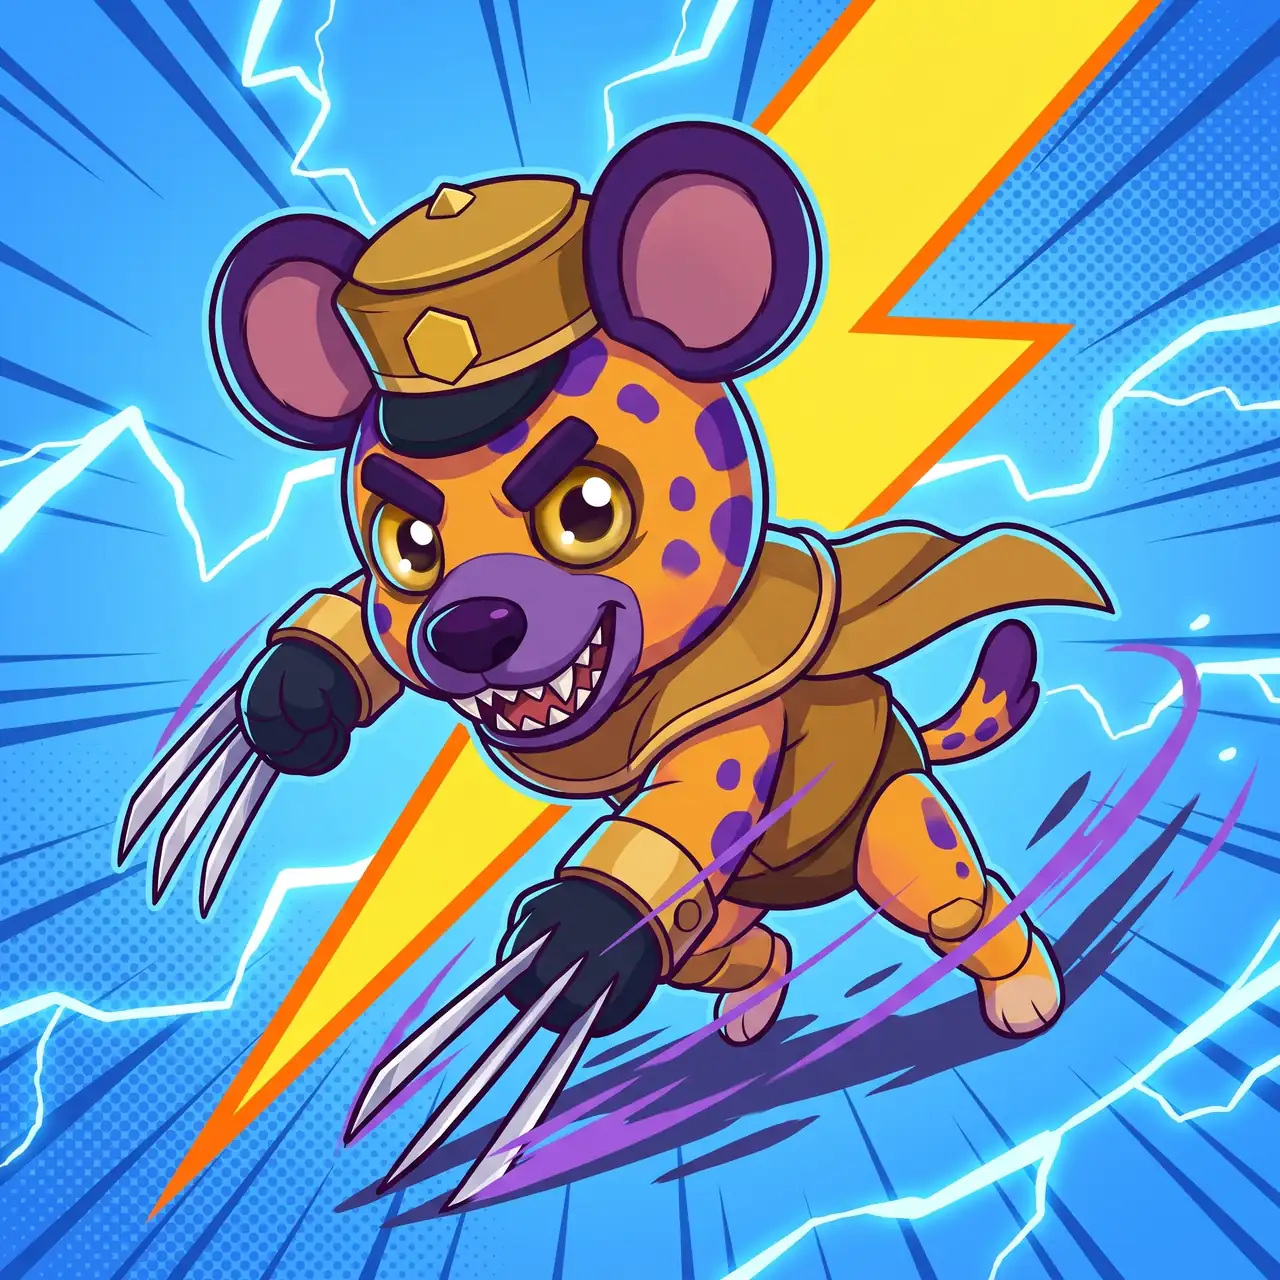
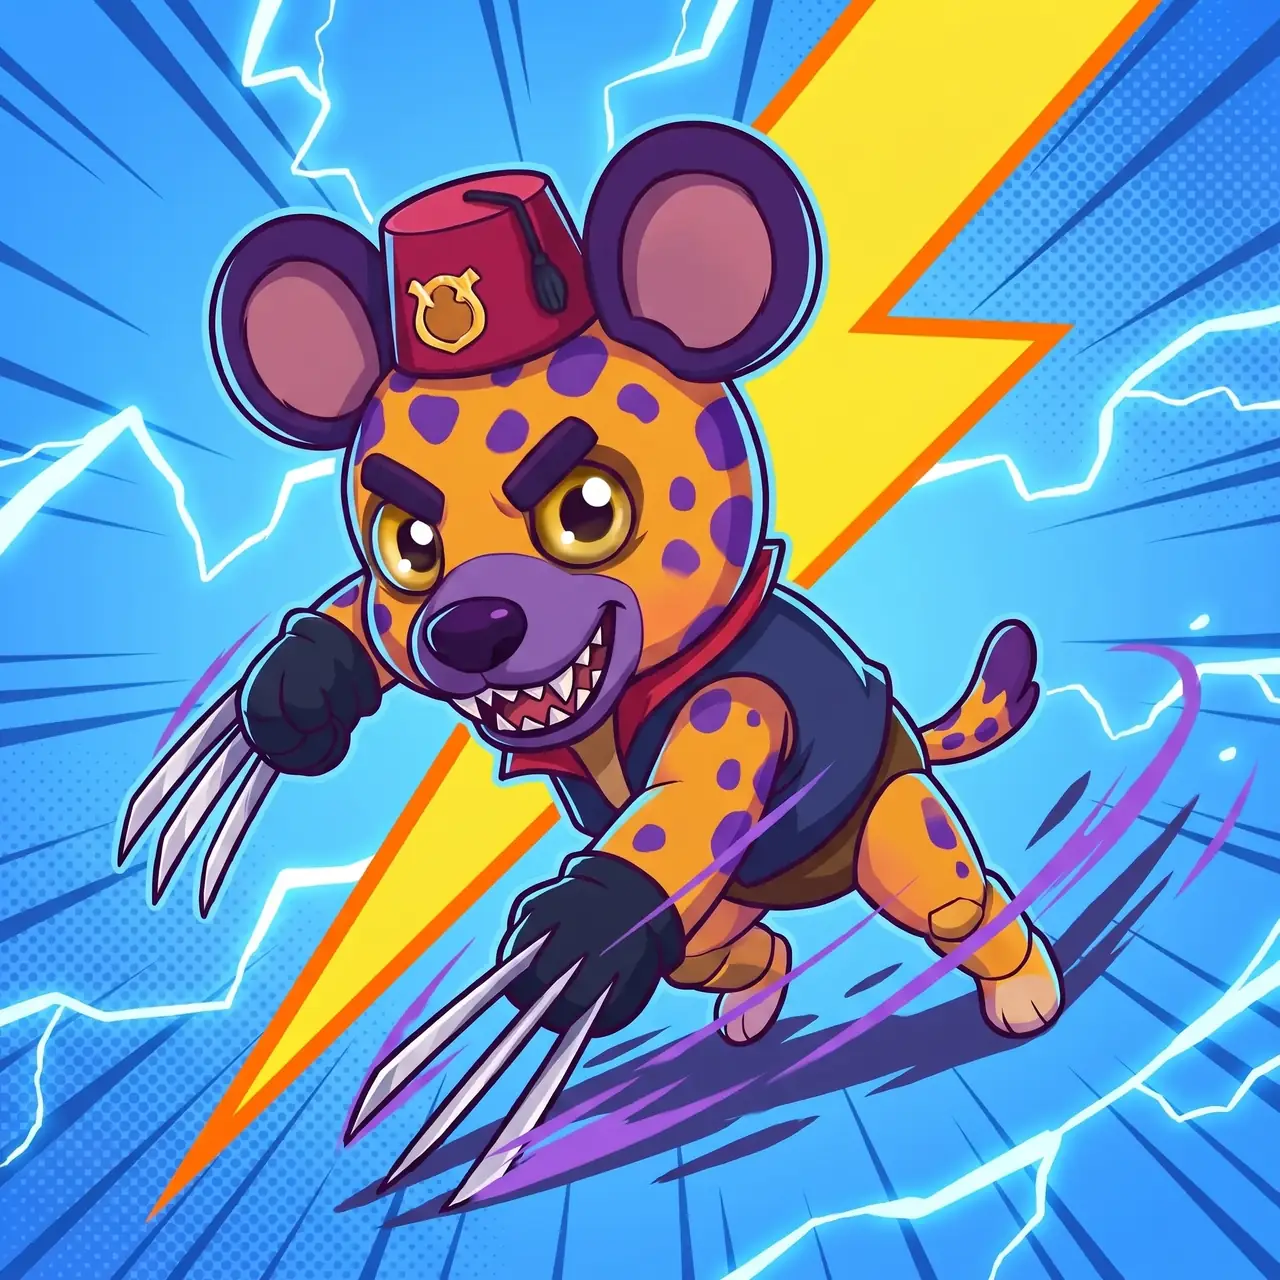
feat(pawlegends): loading comic rev 2, four panels redrawn on-model and five new champions
Sir Brutus (white dome helmet, pink crest), Marshmallow (pink beanie and scarf), Cacklejaw (red fez,
navy vest) and Howler (pink mantle and mitts, no harness) redrawn against their in-game 3D models;
Nova, Ziggy, Dusty, Barkula and Ranger added from dev-gallery renders of their models (gemini-3-pro-image).
17 panels (9 cats, 8 dogs), 640 ~55 KB / 1280 ~113 KB webp; COMIC_REV 2.

diff --git a/pawlegends/src/boot/comicBoot.js b/pawlegends/src/boot/comicBoot.js
@@ -7,7 +7,8 @@
  * is requested; a one-line script right after the #boot markup then calls `comicBoot` to build the panels.
  * The unit tests import it as a module (tests/unit/comic-boot.test.ts). Keep it plain ES2017, no imports.
  *
- * - The art: 12 square panels (6 cats, 6 dogs, every role; gemini, brand book v6 references) streamed from
+ * - The art: 17 square panels (9 cats, 8 dogs, every role; gemini, brand book v6 references and in-game model renders;
+ *   rev 2: Sir Brutus, Marshmallow, Cacklejaw and Howler redrawn on-model, Nova, Ziggy, Dusty, Barkula and Ranger added) streamed from
  *   pawlegends.app (`pawlegends-web/public/pawlegends-art/loading/<hero>-640|1280.webp`, outside the game's 10 MB),
  *   so the native app and other hosts read them from https://pawlegends.app too. Bump COMIC_REV when a file changes.
  * - Every load shows 9 of them in a random order, cats and dogs alternating panel to panel.
@@ -21,7 +22,7 @@
  */
 
 /** Cache key of the panel files on pawlegends.app (`?r=`): bump on every re-render of the art. */
-export const COMIC_REV = 1;
+export const COMIC_REV = 2;
 
 /** The panels: hero id and side. File `loading/<id>-<640|1280>.webp`. */
 export const COMIC_PANELS = [
@@ -31,12 +32,17 @@ export const COMIC_PANELS = [
   ['gabe', 'cat'],
   ['lambo', 'cat'],
   ['stilts', 'cat'],
+  ['nova', 'cat'],
+  ['ziggy', 'cat'],
+  ['dusty', 'cat'],
   ['brutus', 'dog'],
   ['howler', 'dog'],
   ['chili', 'dog'],
   ['marshmallow', 'dog'],
   ['nugget', 'dog'],
   ['cacklejaw', 'dog'],
+  ['barkula', 'dog'],
+  ['ranger', 'dog'],
 ];
 
 /**
